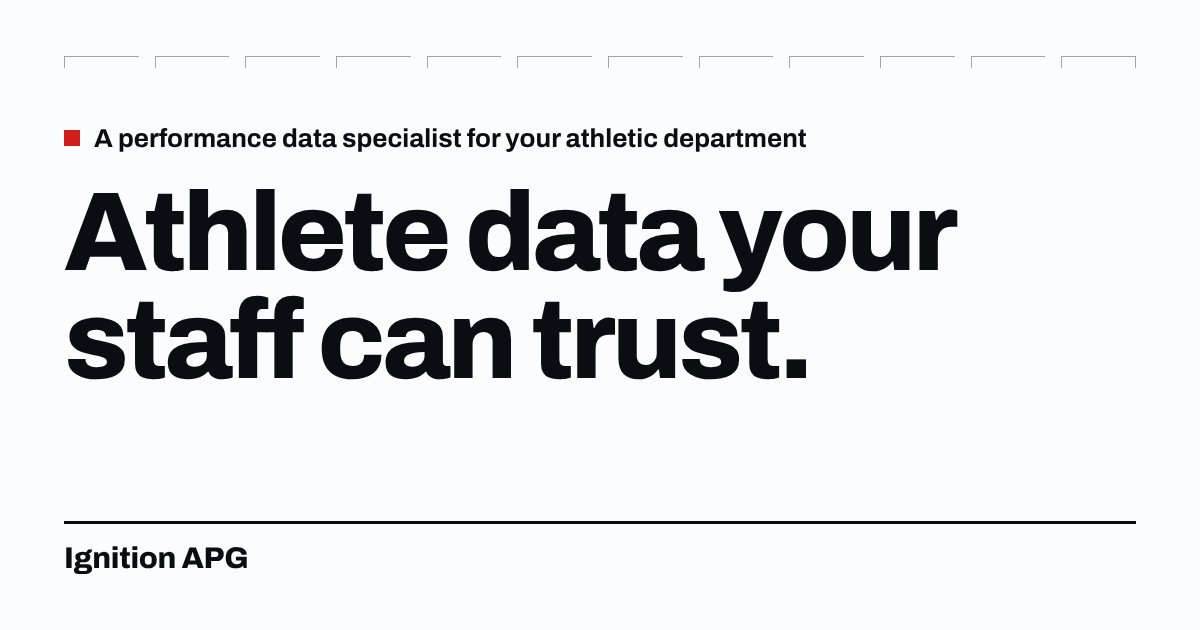
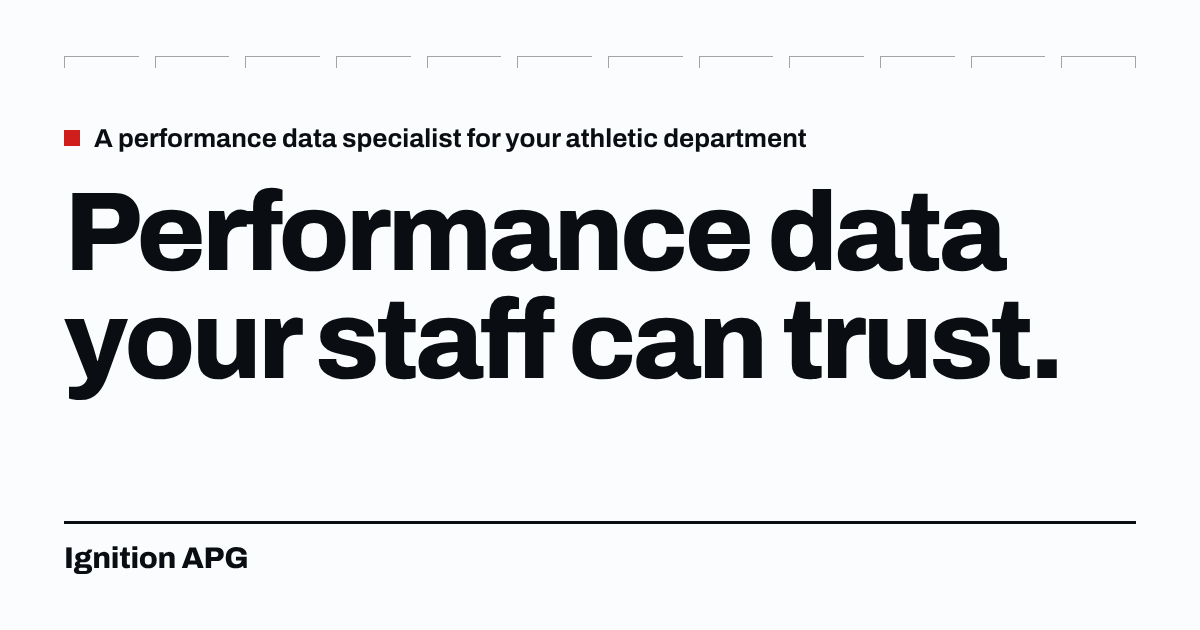
Hero picker asks who handles the work; rewrite How it starts and the hero
Third picker question with Calendly prefill (a4). New How it starts text and
hero heading and text, with banned words swapped out. Page title, description,
share image, privacy text, and notes updated to match.

Claude-Session: https://claude.ai/code/session_01RwCBRhBxGeRTD9CTv6hULp

Changed region(s): [[0.0308, 0.3016, 0.8942, 0.6333]]

diff --git a/src/content/site.ts b/src/content/site.ts
@@ -11,22 +11,23 @@ export const site = {
   name: "Ignition APG",
   // The logo spells out the full name, so visitors learn what APG stands for (Jake, 2026-10-15).
   logoAlt: "Ignition Athletic Performance Group",
-  pageTitle: "Ignition APG: athlete data your staff can trust",
+  pageTitle: "Ignition APG: performance data your staff can trust",
   description:
-    "Ignition APG gives each college athletic department its own performance data specialist. We collect, check, connect, and explain athlete data. Every decision stays with your staff.",
+    "Ignition APG gives each college athletic department its own performance data specialist. We organize, check, connect, and deliver performance data. Every decision stays with your staff.",
   bookButton: "Book a 30-minute workflow review",
   emailLink: "Email us",
 };
 
 export const hero = {
   label: "A performance data specialist for your athletic department",
-  heading: "Athlete data your staff can trust.",
-  text: "Ignition APG gives each department its own performance data specialist, supported by our software. Your specialist collects, checks, connects, and explains athlete data.",
+  heading: "Performance data your staff can trust.",
+  text: "Ignition APG gives each department its own performance data specialist, supported by our software. Your specialist organizes, checks, connects, and delivers information across the systems your staff already use.",
   underButton: "Your staff keep the context, interpretation, and decisions.",
 };
 
-// Hero picker (Jake, 2026-10-16). Two taps: the role, then what takes the most time. Calendly opens with both
-// answers filled in (a1 = role, a3 = problem). Order and types of the Calendly questions: docs/BOOKING.md.
+// Hero picker (Jake, 2026-10-16). Three taps: the role, what takes the most time, and who handles that work today.
+// Calendly opens with the answers filled in (a1 = role, a3 = problem, a4 = who handles it). Order and types of the
+// Calendly questions: docs/BOOKING.md.
 export const rolePicker = {
   prompt: "What best describes your role?",
   hint: "Your answers fill in the booking form for you.",
@@ -40,7 +41,7 @@ export const rolePicker = {
   otherLink: "Other role? Book a 30-minute workflow review",
   problem: {
     prompt: "What takes the most time each week?",
-    hint: "Choose the closest answer. Next, you choose a time.",
+    hint: "Choose the closest answer.",
     // Each choice fills the Calendly problem question. "Fix" is not used: BRIEF.md bans it for values.
     choices: [
       "Exporting files and refreshing reports",
@@ -49,6 +50,18 @@ export const rolePicker = {
       "Getting reports ready before coaches need them",
     ],
     other: "Something else",
+  },
+  owner: {
+    prompt: "Who handles that work today?",
+    hint: "Choose the closest answer. Next, you choose a time.",
+    choices: [
+      "A strength or performance coach",
+      "A sport scientist",
+      "A graduate assistant or intern",
+      "A data or technology specialist",
+      "Several people share it",
+      "Nobody consistently owns it",
+    ],
   },
   back: "Back",
 };
@@ -136,23 +149,25 @@ export const staysWithStaff = {
   ],
 };
 
+// Rewritten by Jake, 2026-10-16. The email, Slack, and text line moved: the specialist section and "What do we get?" say it.
 export const howItStarts = {
-  heading: "How it starts. Free.",
+  heading: "Find the first workflow we could own. Free.",
   steps: [
     {
-      title: "A 30-minute call",
-      text: "You tell us about your systems and the data problem that costs your staff the most time.",
+      title: "Map one recurring workflow",
+      text: "On a 30-minute call, you show us which systems are involved, who manages them, and where the process slows down.",
     },
     {
-      title: "A review of one export",
-      text: "You send one export from one system you use. You can remove athlete names first. We check every value.",
+      title: "Review the real handoffs",
+      text: "You can share exports, reports, or examples of the process. Remove athlete names first if you like. We look for repeated manual work, missing ownership, and delays between systems.",
     },
     {
-      title: "What we found",
-      text: "We walk you through what we found on a short call. You get a written summary and a plan for your data.",
+      title: "Get a practical next-step plan",
+      text: "We walk you through what we found. You get a written summary of the problems, the improvements we recommend, and the first workflow we could own.",
     },
   ],
-  closingLine: "Staff ask questions by email, Slack, or text. They see results on our platform.",
+  closingLine:
+    "If the problem fits, we will explain what it looks like when a performance data specialist owns that work. If your systems and staff already cover it reliably, we will say so.",
 };
 
 export const questions = {
@@ -221,13 +236,14 @@ export const privacy = {
     "This page covers this website only.",
     "This site uses no cookies.",
     "We count visits with Vercel Web Analytics. It uses no cookies and does not identify you.",
-    "When you book a call, Calendly collects your name, email, role, school and sports, and your answer about your data problem.",
+    "When you book a call, Calendly collects your name, email, role, and school and sports.",
+    "It also collects your answers about your data problem and who handles that work today.",
     "We use that information to prepare for the call.",
     "Calendly handles the booking. We do not sell your information or add you to a mailing list.",
   ],
   emailLine: "To see or delete your information, email",
   // A practical date, not a statistic. check-claims allows digits only on this line.
-  lastUpdated: "Last updated: October 12, 2026",
+  lastUpdated: "Last updated: October 16, 2026",
 };
 
 export const notFound = {

diff --git a/src/styles/global.css b/src/styles/global.css
@@ -74,8 +74,8 @@
   .btn--choice:hover { background: var(--color-ink); color: var(--color-on-ink); border-color: var(--color-ink); }
   .btn--choice:active { background: var(--color-neutral); color: var(--color-on-ink); border-color: var(--color-neutral); }
 
-  /* Hero picker progress: two 2 px rules, like the rule over the lead text. No numbers. */
-  .progress { display: grid; grid-template-columns: 1fr 1fr; gap: 0.5rem; }
+  /* Hero picker progress: three 2 px rules, like the rule over the lead text. No numbers. */
+  .progress { display: grid; grid-template-columns: repeat(3, 1fr); gap: 0.5rem; }
   .progress span { height: 2px; background: var(--color-rule-2); }
   .progress span[data-on] { background: var(--color-ink); }
   [data-step] > p[tabindex="-1"]:focus { outline: none; }

diff --git a/docs/STATUS.md b/docs/STATUS.md
@@ -104,16 +104,20 @@ Last updated: 2026-10-16 (evening)
 
 ## Jake's decisions so far
 
-- 2026-10-16 (two-step hero picker, on its own branch, for Jake to review):
-  - Jake saw a clickable example and said it looks right. Built on the real site.
-  - Tap one is the role. Tap two is "What takes the most time each week?". Calendly then opens with the role (`a1`) and the problem (`a3`) filled in. "Something else" fills only the role.
+- 2026-10-16 (hero picker, "How it starts", and hero words; one branch, for Jake to review):
+  - Jake saw a clickable example of the picker and said it looks right. Built on the real site.
+  - Three taps: the role, "What takes the most time each week?", then "Who handles that work today?". Calendly opens with the role (`a1`), problem (`a3`), and owner (`a4`) filled in. "Something else" fills nothing for the problem.
   - Role buttons are now Performance director, Sport science director, Strength and conditioning director, Sport scientist or performance analyst, Sport coach. "Athletic trainer" is no longer a button. Athletic trainers use "Other role?".
-  - New lines: "Your answers fill in the booking form for you." and "Choose the closest answer. Next, you choose a time." The line under the picker is now "Your staff keep the context, interpretation, and decisions."
-  - "Fixing missing or incorrect data" became "Finding missing or wrong data", because this site never says we "fix" a value (`docs/BRIEF.md`). "Combining" became "Connecting", the site's word.
-  - Checks: `npm run check` passes (copy and claims). Tested at 320, 375, 390, and 1440 px: no sideways scroll, tap targets 44 px or taller, text 16 px or larger, focus moves to the new question, Back works, and without script a role opens Calendly at once.
+  - The line under the picker is now "Your staff keep the context, interpretation, and decisions."
+  - Jake pasted new copy. Jake approved the third question and the rewrite of "How it starts" and the hero, with banned words swapped out:
+    - "Dedicated" became "its own". "Operator" is not used. "Ignition" became "Ignition APG" or "we".
+    - "Fixing missing or incorrect data" became "Finding missing or wrong data", because this site never says we "fix" a value. "Combining" became "Connecting".
+    - "How it starts" heading: "Find the first workflow we could own. Free." Its old closing line (email, Slack, text) is gone from there. The specialist section and "What do we get?" still say it.
+    - Hero heading: "Performance data your staff can trust." The page title, site description, and share image follow it.
+  - Privacy page: Calendly also collects the new answers, so the text says so. Its date is now October 16, 2026.
+  - Checks: `npm run check` passes (copy and claims). Tested at 320, 375, 390, and 1440 px: no sideways scroll, tap targets 44 px or taller, text 16 px or larger, focus moves to each new question, Back works at each step, and without script a role opens Calendly at once.
   - `cta_click` and `booking_opened` fire on the last tap only, with the role.
-  - Jake must check Calendly before the merge. See `docs/BOOKING.md` section 2b: the problem question must be the third question, and it must be a text question.
-
+  - Jake must check Calendly before the merge. See `docs/BOOKING.md`: there must be a fourth question, "Who handles that work today?", as a text question.
 
 - 2026-10-15 (BASIS database updates, outside this site):
   - Jake asked for this one change in `basis-workspace` by name. It is a one-time exception to hard rule 1. Nothing on this site changed.
@@ -204,12 +208,11 @@ Last updated: 2026-10-16 (evening)
 2. **Then:** weekly numbers every Monday, the first review after 2 weeks or 10 bookings, and outreach to the first 20 performance leaders (`docs/LAUNCH.md`).
 3. **Logo:** done. Jake merged PR #2 (Option D). An SVG of the logo would make it sharper later. Not required.
 4. Future site changes go on a fresh branch and a new pull request. Jake clicks merge himself. Never merge for him.
-5. **Hero picker pull request.** Check Calendly (`docs/BOOKING.md` section 2b) and test the prefill link. Then merge when happy.
-6. **Pasted copy not built yet.** Jake pasted new copy on 2026-10-16. Some of it breaks his own rules, so it waits for his answers:
-   - **A third question, "Who handles that work today?"** Needs a fourth Calendly question and one more tap. Choices proposed: a strength or performance coach, a sport scientist, a GA or intern, a data or technology specialist, several people share it, nobody consistently owns it.
-   - **New "How it starts" text.** It uses "dedicated", "one or two" (number words), and "operator". It also adds promises that are not in the brief: a review of "real handoffs", a summary of "recommended improvements", and "if your systems already cover the work, we will say so". The approved written summary stays.
-   - **New hero heading and left text.** The two versions in the paste disagree. Both say "dedicated", which is banned. One drops "performance data", and "performance data specialist" is the one term. Changing "explains" to "delivers" also changes the approved verbs: collect, check, connect, explain.
-   - **"Ignition operator" text for a later section.** "Operator" is not the approved term. It would use "performance data specialist".
+5. **Hero picker pull request (PR #4).** Add the fourth Calendly question and check the order (`docs/BOOKING.md`, section 2b). Test the prefill link. Then merge when happy.
+6. **Decisions left:**
+   - The later "What working with Ignition looks like" text is not built. It said "operator". Jake can say where it goes and that it uses "performance data specialist".
+   - "Explain" still appears in "What you can hand us" and in one answer. The hero no longer uses it. Jake decides if those change too.
+   - The thank-you page still says "pick one export from one system you use". The new step two says "exports, reports, or examples of the process". Jake decides if the thank-you page should match.
 
 ## The stages
 

diff --git a/docs/BOOKING.md b/docs/BOOKING.md
@@ -14,16 +14,17 @@ Do these steps in Calendly on a computer. Calendly sometimes moves or renames it
 
 ## 2. Add the booking questions
 
-Calendly always asks for **Name** and **Email**. Add three more questions. Each one decides whether a booking is qualified.
+Calendly always asks for **Name** and **Email**. Add four more questions. Each one decides whether a booking is qualified.
 
 1. In the event, open **Booking form** (some accounts call it **Invitee Questions**).
-2. Click **Add new question** three times, with these settings:
+2. Click **Add new question** four times, with these settings (added the fourth on 2026-10-16):
 
 | Question | Answer type | Required |
 |---|---|---|
 | What is your role? | One line | Yes |
 | Which school and sports do you work with? | Multiple lines | Yes |
 | Which data problem costs your staff the most time? | Multiple lines | Yes |
+| Who handles that work today? | One line | Yes |
 
 3. Click **Save**.
 
@@ -31,16 +32,16 @@ The last question is the one you prepare the call from. It is also the "most pai
 
 ## 2b. Prefill from the hero picker (updated 2026-10-16)
 
-The hero asks two questions. Each answer fills a Calendly booking question from the link, so visitors do not type it twice:
+The hero asks three questions. Each answer fills a Calendly booking question from the link, so visitors do not type it twice:
 
 - `?a1=` fills the **first question you added**, "What is your role?".
-- `?a3=` fills the **third question you added**, "Which data problem costs your staff the most time?". Name and email do not count, because Calendly adds those itself.
+- `?a3=` fills the **third question you added**, "Which data problem costs your staff the most time?". - `?a4=` fills the **fourth question you added**, "Who handles that work today?". Name and email do not count, because Calendly adds those itself.
 
 For this to work, check three things under the event's **Booking form** (or **Invitee Questions**):
 
-1. **The order is: role, then school and sports, then the data problem.** If you reorder them, tell me and I will change the links.
-2. **Role and problem are both "One line" or "Multiple lines" text questions.** Do not change them to a drop-down or radio buttons. The text must match the picker exactly, and "Other role" visitors type their own.
-3. **Neither question is hidden.** Visitors can still change what the picker filled in.
+1. **The order is: role, then school and sports, then the data problem, then who handles that work.** If you reorder them, tell me and I will change the links.
+2. **Role, problem, and who handles it are all text questions** ("One line" or "Multiple lines"). Do not change them to a drop-down or radio buttons. The text must match the picker exactly, and "Other role" visitors type their own.
+3. **None of these questions is hidden.** Visitors can still change what the picker filled in.
 
 The picker sends these values.
 
@@ -57,14 +58,22 @@ Problem (`a3`). "Something else" sends no problem, so the box is empty:
 - Connecting data from different systems
 - Getting reports ready before coaches need them
 
+Who handles it (`a4`):
+- A strength or performance coach
+- A sport scientist
+- A graduate assistant or intern
+- A data or technology specialist
+- Several people share it
+- Nobody consistently owns it
+
 **Test it** (I cannot open calendly.com from my environment, so this is yours):
 
-1. Open this link: https://calendly.com/ja-lerman-ignitionapg/intro-call?a1=Sport%20scientist%20or%20performance%20analyst&a3=Connecting%20data%20from%20different%20systems
+1. Open this link: https://calendly.com/ja-lerman-ignitionapg/intro-call?a1=Sport%20scientist%20or%20performance%20analyst&a3=Connecting%20data%20from%20different%20systems&a4=Several%20people%20share%20it
 2. Pick any time.
-3. On the form, "What is your role?" should say **Sport scientist or performance analyst**. The data problem box should say **Connecting data from different systems**. School and sports should be empty.
+3. On the form, "What is your role?" should say **Sport scientist or performance analyst**. The data problem box should say **Connecting data from different systems**. The fourth box should say **Several people share it**. School and sports should be empty.
 4. Close the page without booking.
 
-If the problem box is empty but the role box is filled, tell me the problem question's position and type, and I will fix the links.
+If a box is empty but the role box is filled, tell me that question's position and type, and I will fix the links.
 
 ## 3. Send people to the thank-you page after they book
 

diff --git a/docs/DESIGN.md b/docs/DESIGN.md
@@ -51,13 +51,13 @@ There is one accent. There are no gradients, no shadows, and no rounded corners.
 | Button | Ink fill, on-ink text, 2 px ink border, square corners, 48 px tall (header button 44 px). Red on hover, neutral on press, red focus ring. The label never wraps. |
 | Text link | Ink, underlined, red underline on hover. |
 | Hero | Ruler, label with red square, display heading across columns 1 to 11. From 64rem: lead text in columns 1 to 5 (up to 1.5rem) and the role picker with the under-picker line in columns 7 to 12. The lead text sits under a 2 px ink rule and the picker under its progress bar (2026-10-16). Below 64rem: one rule, then text, then picker. The code order is text, picker, under-picker line. |
-| Role picker (hero, 2026-10-16) | Two taps in the right column, under a progress bar of two 2 px segments (grey, then ink as you go, no numbers). Step one: the bold role question, a muted line, five full-width outlined choices (2 px ink border, paper fill, left-aligned, at least 48 px tall, wrapping onto a second line when the label is long), then a text link for other roles. Choices fill with ink on hover. Tapping a role shows step two in the same place: the problem question, a muted line, four choices plus "Something else", and a Back link. Focus moves to the new question. The last tap opens Calendly with the role and problem filled in. Without script, a role opens Calendly at once. It is not a quiz: no scoring, no result, no levels. |
+| Role picker (hero, 2026-10-16) | Three taps in the right column, under a progress bar of three 2 px segments (grey, then ink as you go, no numbers). Step one: the bold role question, a muted line, five full-width outlined choices (2 px ink border, paper fill, left-aligned, at least 48 px tall, wrapping onto a second line when the label is long), then a text link for other roles. Choices fill with ink on hover. Tapping a role shows step two in the same place: the problem question, a muted line, four choices plus "Something else", and a Back link. A problem choice shows step three: "Who handles that work today?" with six choices and a Back link. Focus moves to the new question each time. The last tap opens Calendly with the role, problem, and owner filled in. Without script, a role opens Calendly at once. It is not a quiz: no scoring, no result, no levels. |
 | Problem rows | Heading left. Symptoms as rows with hairlines on the right. The closing line in bold, between 2 px ink rules. The department message below it in neutral. |
 | Sticky headings (2026-10-13) | From 64rem only, and only in Problem, What you can hand us, One person owns your data work, and Who we are, where the right column is much longer. The left block pins 96 px from the top, under the header, and lets go at its section end. No script. |
 | Grouped list ("What you can hand us") | Heading and text left. Four groups on the right, each under a 2 px ink rule with the verb as a small heading. No markers. It mirrors the ink band, light then dark. |
 | Specialist section (2026-10-13) | Heading and text left. On the right, two groups under 2 px ink rules: "Who your performance data specialist is" (plain list) and "A week with your performance data specialist" (ordered list, hairline between rows, no visible numerals). No photos, avatars, faces, or icons. |
 | Ink band ("We handle the data work") | The one dark section. Heading left on ink, six items in two columns on the right, each item with a hairline above it. |
-| Step columns ("How it starts. Free.") | Three columns divided by vertical hairlines. Titles carry the order, with no numerals. The closing line sits under a rule. Then the booking button: the one mid-page button, so phone visitors can book at the moment they decide. Stacks to rows on phones. |
+| Step columns ("Find the first workflow we could own. Free.") | Three columns divided by vertical hairlines. Titles carry the order, with no numerals. The closing line sits under a rule. Then the booking button: the one mid-page button, so phone visitors can book at the moment they decide. Stacks to rows on phones. |
 | Questions | Heading left. On the right, native `<details>` rows divided by hairlines, all closed on load (Jake, 2026-10-13). Each summary is at least 56 px tall with a "+" or "−" marker as text, the red focus ring, and hover and press styles. Answers stay in the page HTML. |
 | Who we are | Heading left (sticky from 64rem), five short paragraphs right (Jake, 2026-10-13). |
 | Final call to action | A large section heading, the button, then the email line. |

diff --git a/docs/BRIEF.md b/docs/BRIEF.md
@@ -57,17 +57,21 @@ Jake filled every open slot. The words are in `docs/MESSAGE.md` v4. New facts:
 1. The closing line of "How it starts" is now: "Staff ask questions by email, Slack, or text. They see results on our platform." It replaces the original "Your staff reach us by email, Slack, or text. No new login is needed to ask a question." The old line could read as a contradiction of "Your staff log in to our platform to see the results."
 2. Jake approved the Stage 4 audit.
 
-## Changes from Jake, 2026-10-16 (two-step hero picker)
+## Changes from Jake, 2026-10-16 (hero picker, "How it starts", hero words)
 
-These override the role picker lines in the 2026-10-13 section below.
+These override the role picker lines in the 2026-10-13 section below, and the "How it starts" and hero text further down.
 
-1. **Two taps in the hero.** The role, then "What takes the most time each week?". Then Calendly opens with both answers filled in (`a1` role, `a3` problem). A two-segment bar shows the step. It has no numbers.
+1. **Three taps in the hero.** The role, then "What takes the most time each week?", then "Who handles that work today?". Then Calendly opens with the answers filled in (`a1` role, `a3` problem, `a4` who handles it). A three-segment bar shows the step. It has no numbers.
 2. **Role buttons:** Performance director, Sport science director, Strength and conditioning director, Sport scientist or performance analyst, Sport coach. Then the link "Other role? Book a 30-minute workflow review".
 3. **Problem choices:** Exporting files and refreshing reports. Finding missing or wrong data. Connecting data from different systems. Getting reports ready before coaches need them. Something else. ("Fixing" is not used. This site never says we fix a value.)
-4. **Lines:** "Your answers fill in the booking form for you." under the role question. "Choose the closest answer. Next, you choose a time." under the problem question.
+4. **Lines:** "Your answers fill in the booking form for you." under the role question. "Choose the closest answer." under the problem question. "Choose the closest answer. Next, you choose a time." under the last question.
 5. **Under the picker:** "Your staff keep the context, interpretation, and decisions." It replaces "Every decision stays with your coaches and clinicians."
 6. **Events:** `cta_click` and `booking_opened` fire on the last tap, with section "hero" and the role. Tapping a role alone does not open the booking.
-7. **Waiting on Jake:** a third question, "Who handles that work today?", and new copy for "How it starts", the hero heading and text, and the later ownership text. Some of the proposed words break the hard rules. See `docs/STATUS.md`.
+7. **Who handles that work today?** Choices: A strength or performance coach. A sport scientist. A graduate assistant or intern. A data or technology specialist. Several people share it. Nobody consistently owns it. "Something else" has no match here: the visitor can still type anything in Calendly.
+8. **"How it starts" rewritten.** Heading "Find the first workflow we could own. Free." Steps: "Map one recurring workflow", "Review the real handoffs", "Get a practical next-step plan". Closing line: "If the problem fits, we will explain what it looks like when a performance data specialist owns that work. If your systems and staff already cover it reliably, we will say so." It replaces the old closing line, "Staff ask questions by email, Slack, or text. They see results on our platform." That meaning stays in "One person owns your data work" and in "What do we get?".
+9. **Hero rewritten.** Heading "Performance data your staff can trust." Text: "Ignition APG gives each department its own performance data specialist, supported by our software. Your specialist organizes, checks, connects, and delivers information across the systems your staff already use." The site description and page title follow it. "Dedicated" stays banned, so Jake's words were changed to "its own".
+10. **Not built:** the later "What working with Ignition looks like" text. It used "operator", which is not the approved word.
+11. **Still says "explain":** the "What you can hand us" group and the answer to "Do you make decisions about athletes?". Those lines are in the confirmed delegation list. Jake decides whether they change too.
 
 ## Changes from Jake, 2026-10-13 (review of the preview)
 

diff --git a/PRODUCT.md b/PRODUCT.md
@@ -90,7 +90,7 @@ Set by Jake in the build prompt:
   - No contractions, semicolons, or em or en dashes.
   - No marketing adjectives. The full banned list is in `CLAUDE.md`.
 - **Approved lines:**
-  - "Athlete data your staff can trust."
+  - "Performance data your staff can trust." (Jake, 2026-10-16. It was "Athlete data your staff can trust.")
   - "Performance staff cannot trust their numbers, and nobody owns fixing them."
   - The vision paragraph in `docs/BRIEF.md` section 3.4.
 - **Look:** careful, checked, and calm. Evidence over effects. Avoid the sports-tech look: dark background with neon green, athlete silhouettes, lens flares, glowing dashboards, and gradient blobs.
